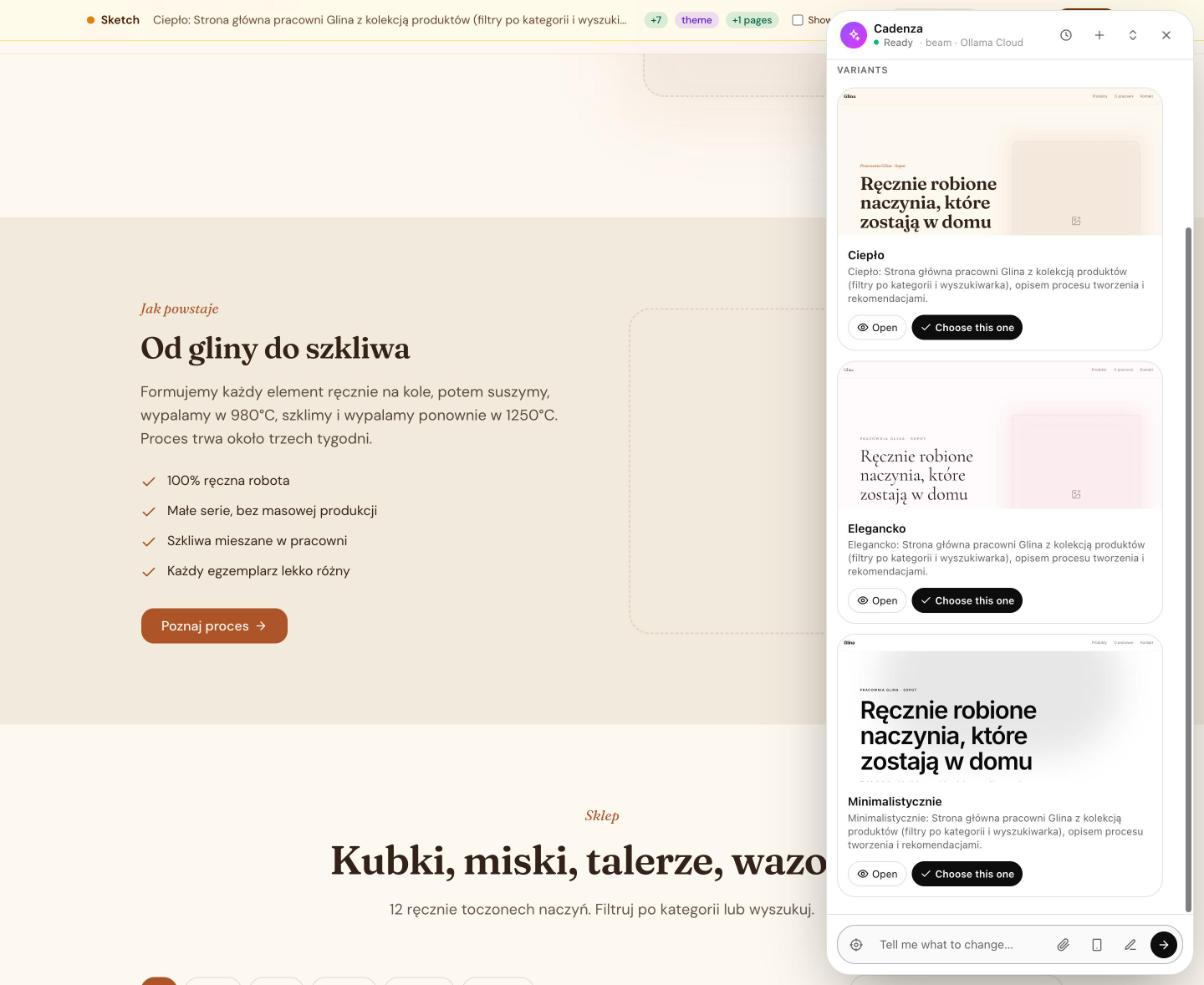
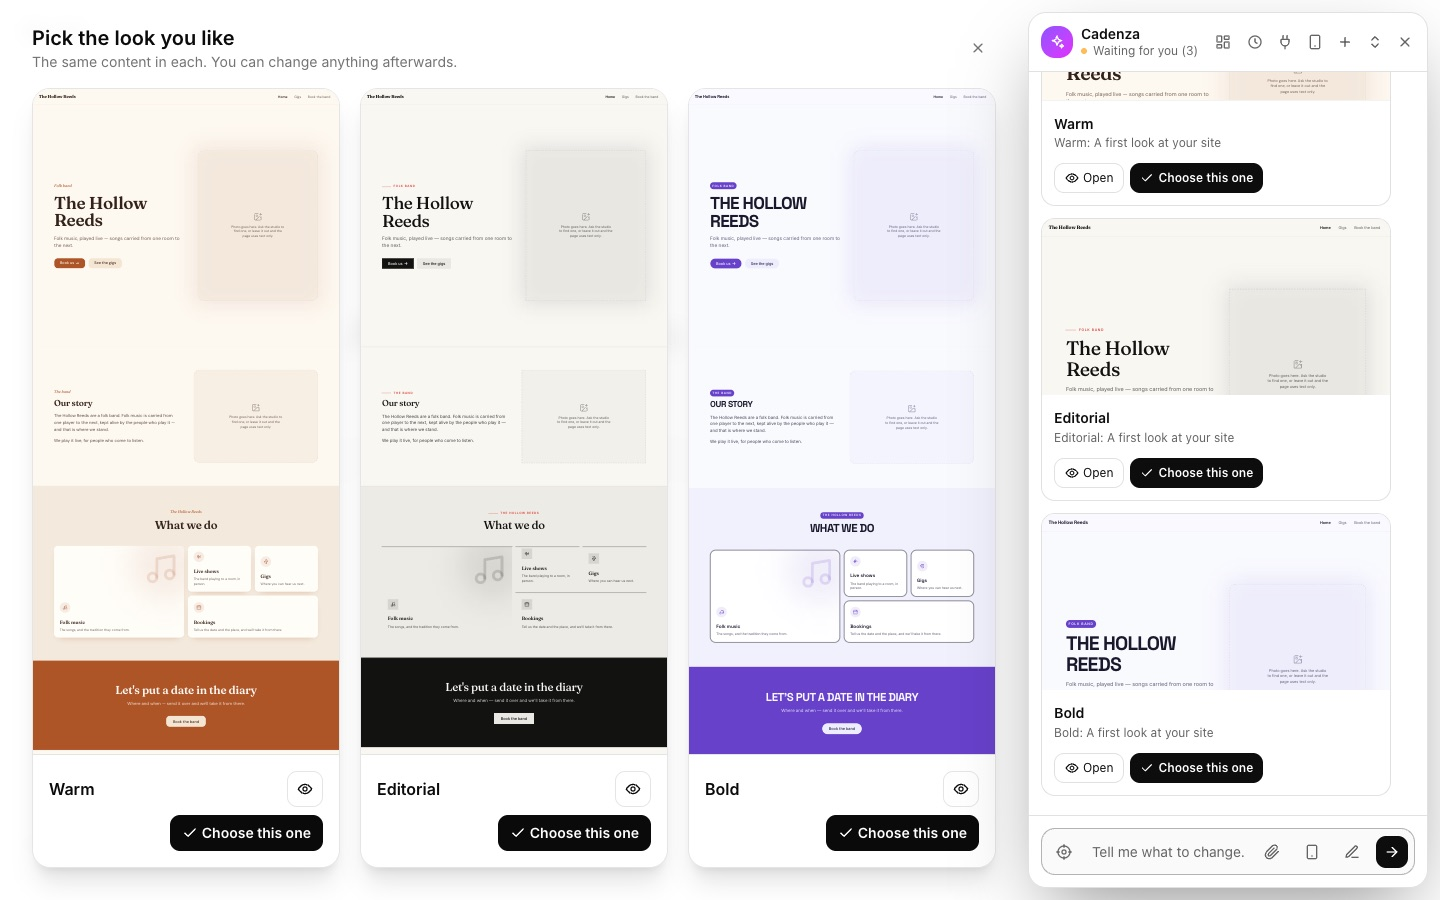
Looks named in full on the stage, photos the Commons community assessed come first, a look's sketch is not called 'three versions', a README picture of the stage

diff --git a/runtime-bundle/assets/panel.js b/runtime-bundle/assets/panel.js
@@ -1157,8 +1157,8 @@ ${c.connection ? `<div class="mt-2 text-xs text-emerald-700 dark:text-emerald-30
   <div data-frame class="relative min-h-0 flex-1 overflow-hidden bg-muted">
     <iframe src="${escapeHtml(url.pathname + url.search)}" tabindex="-1" class="pointer-events-none absolute left-0 top-0 w-[1280px] origin-top-left border-0"></iframe>
   </div>
-  <div class="flex items-center gap-2 border-t border-border p-4">
-    <div class="min-w-0 flex-1 truncate text-base font-semibold">${escapeHtml(v.variantName ?? '')}</div>
+  <div class="flex flex-wrap items-center justify-end gap-2 border-t border-border p-4">
+    <div class="min-w-[6rem] flex-1 text-base font-semibold">${escapeHtml(v.variantName ?? '')}</div>
     <button type="button" data-do="open" title="${t('open')}" class="flex size-9 shrink-0 items-center justify-center rounded-lg border border-border hover:bg-muted">${icon('eye', 'size-4')}</button>
     <button type="button" data-do="pick" class="flex shrink-0 items-center gap-1 whitespace-nowrap rounded-lg bg-foreground px-3 py-2 text-sm font-semibold text-background">${icon('check', 'size-4')}${t('choose')}</button>
   </div>

diff --git a/harness/src/Media/ImageSearch.php b/harness/src/Media/ImageSearch.php
@@ -44,13 +44,17 @@ final class ImageSearch
         // Commons wants every word to match: models ask for "Tatras mountain peaks alpine ridge beautiful weather".
         // Fewer words until there are enough photos: all of them, the first four, the first two.
         $words = preg_split('/\s+/', trim($query)) ?: [$query];
-        foreach (array_unique([implode(' ', $words), implode(' ', \array_slice($words, 0, 4)), implode(' ', \array_slice($words, 0, 2))]) as $terms) {
+        $queries = array_unique([implode(' ', $words), implode(' ', \array_slice($words, 0, 4)), implode(' ', \array_slice($words, 0, 2))]);
+        // Photos the Commons community assessed (featured, quality, valued) first: an archive of everything has
+        // blurred snapshots next to very good photographs, and the assessed ones are the good ones. Then the rest.
+        // (Only for the whole query: with fewer words an assessed photo of something else would come first.)
+        foreach ([[$queries[0], true], ...array_map(static fn (string $q): array => [$q, false], $queries)] as [$terms, $assessed]) {
             if (\count($results) >= $count) {
                 break;
             }
             try {
                 $seen = array_column($results, 'id');
-                foreach ($this->wikimedia($terms, $count - \count($results), $orientation) as $found) {
+                foreach ($this->wikimedia($terms, $count - \count($results), $orientation, $assessed) as $found) {
                     if (!\in_array($found['id'], $seen, true)) {
                         $results[] = $found;
                     }
@@ -64,14 +68,14 @@ final class ImageSearch
         return \array_slice($results, 0, $count);
     }
 
-    private function wikimedia(string $query, int $count, string $orientation): array
+    private function wikimedia(string $query, int $count, string $orientation, bool $assessed = false): array
     {
         $data = $this->http->request('GET', 'https://commons.wikimedia.org/w/api.php', [
             'timeout' => 15,
             'headers' => ['User-Agent' => self::UA],
             'query' => [
                 'action' => 'query', 'format' => 'json', 'generator' => 'search', 'gsrnamespace' => 6,
-                'gsrsearch' => $query.' filetype:bitmap', 'gsrlimit' => 50,
+                'gsrsearch' => $query.' filetype:bitmap'.($assessed ? ' haswbstatement:P6731' : ''), 'gsrlimit' => 50,
                 'prop' => 'imageinfo', 'iiprop' => 'url|extmetadata|size|mime', 'iiurlwidth' => 800,
                 'iiextmetadatafilter' => 'Artist|LicenseShortName|LicenseUrl|ObjectName|ImageDescription|Categories',
             ],

diff --git a/harness/src/Agent/Tool/SiteTools.php b/harness/src/Agent/Tool/SiteTools.php
@@ -187,6 +187,11 @@ final class SiteTools
         if (!$pl && 1 === preg_match('/[ąćęłńóśźżĄĆĘŁŃÓŚŹŻ]/u', $summary)) {
             $summary = '';
         }
+        // Each look becomes a sketch of its own, named by this summary: "Three versions of the site…" would then be
+        // the name of one page. Such a summary gives way to the plain one.
+        if (1 === preg_match('/\b(three|two|3|2|several|trzy|dwie|kilka)\b.{0,24}(look|version|variant|design|wersj|wariant|wygląd|propozycj)/iu', $summary)) {
+            $summary = '';
+        }
         $summary = '' !== trim($summary) ? $summary : ($pl ? 'Propozycja strony' : 'A first look at your site');
         // Models express the directions in many shapes; take the known direction names in the order given.
         preg_match_all('/\b('.implode('|', array_keys(self::HERO_FOR)).')\b/', json_encode($directions) ?: '', $m);

diff --git a/README.md b/README.md
@@ -12,7 +12,7 @@ leave sketches but never publish. Visitors get an assistant that answers only fr
 > *Cadenza*: the passage of a concerto where the soloist improvises freely — on top of a solid structure.
 > Here the owner improvises; Symfony is the structure.
 
-![Three looks of the same content, as live thumbnails, side by side](docs/img/variants.jpg)
+![Three looks of the same content, side by side where the page will be: a folk band chooses one](docs/img/variants.jpg)
 
 ## Try it now, without installing
 
